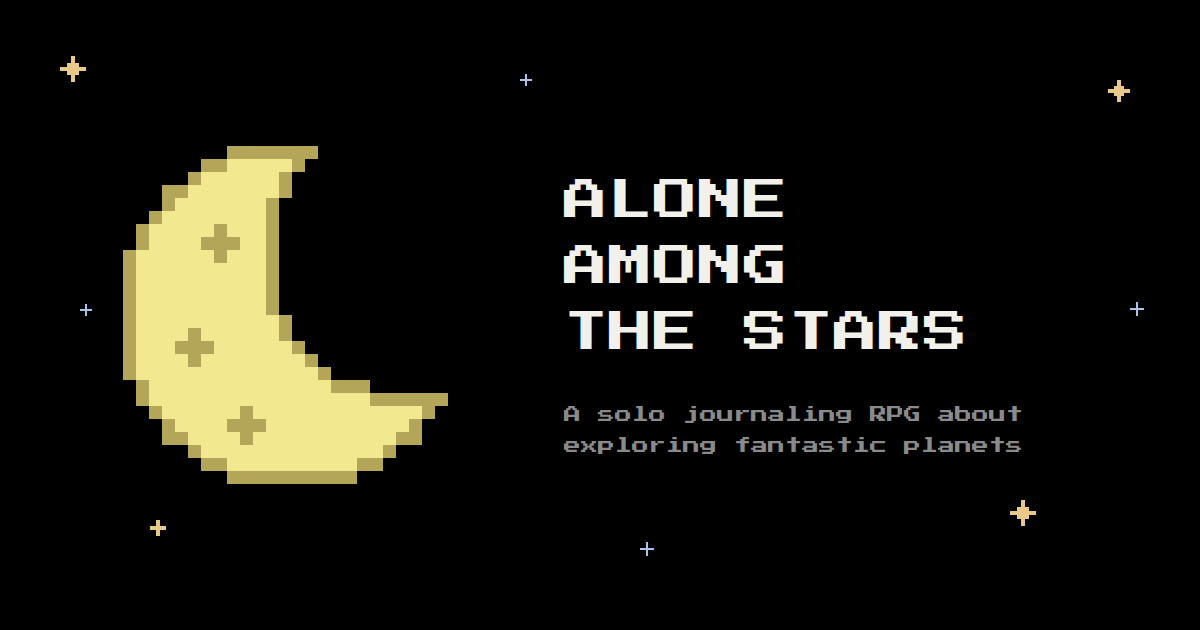
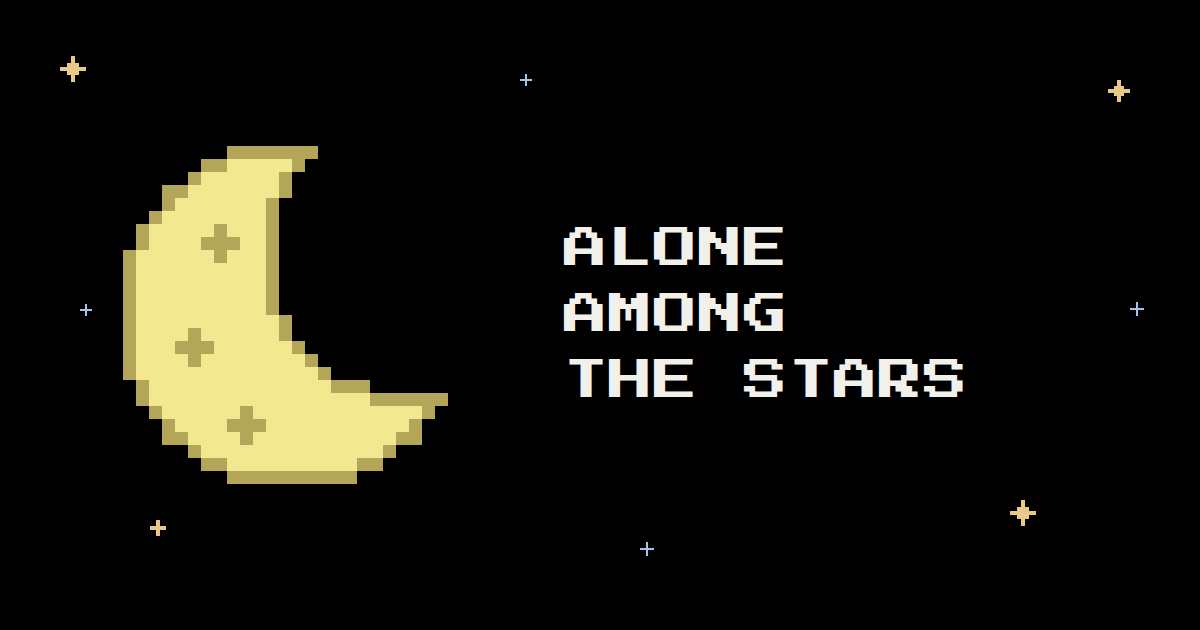
Share image: title only, no description line (#19)
Bumps service worker cache to aats-v25.

Claude-Session: https://claude.ai/code/session_01SvPLUyQGBh3oicXtqafXHR

Changed region(s): [[0.4625, 0.2714, 0.8633, 0.7238]]

diff --git a/sw.js b/sw.js
@@ -1,7 +1,7 @@
 /* Alone Among the Stars — service worker.
    App shell is precached; cross-origin CDN + font assets are cached at runtime,
    so after the first online visit the app works fully offline. */
-const VERSION = 'aats-v24';
+const VERSION = 'aats-v25';
 const SHELL = [
   './',
   './index.html',
